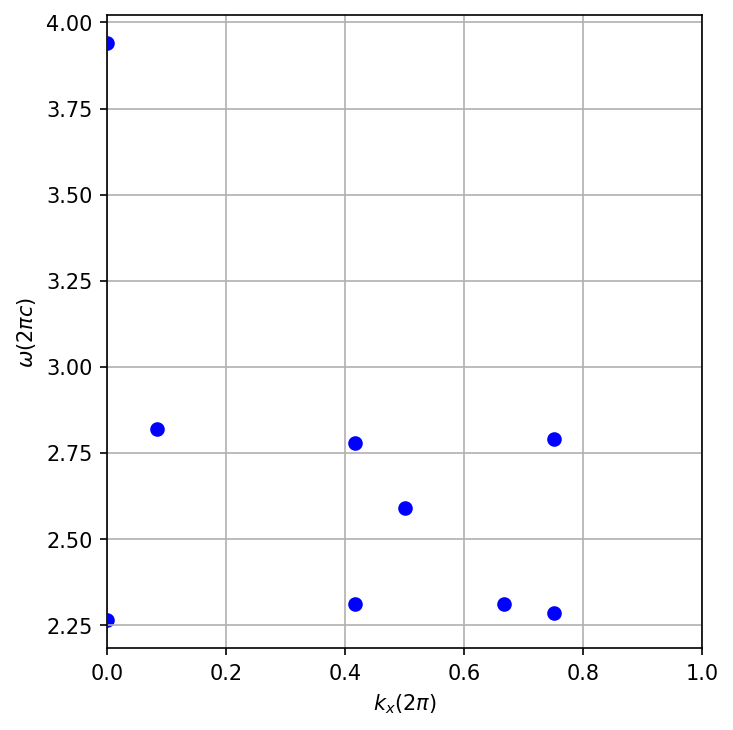
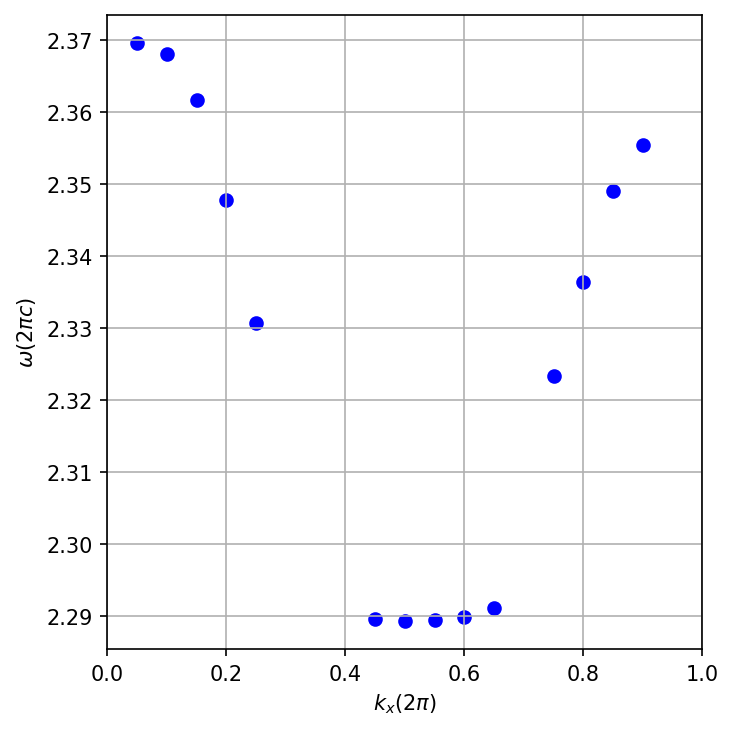
asml

diff --git a/simulation/tdsolver.py b/simulation/tdsolver.py
@@ -64,13 +64,23 @@ def create2dHexSolver(silMat, latticeConstant : float, numSources : int):
 
     
     sources = []
+        
+    # fcen = 1 / latticeConstant #- 2 * rng.random() # pulse center frequency
+    # df = 0.5  # pulse freq. width: large df = short impulse
+
+    # s = mp.Source(
+    #     src=mp.GaussianSource(fcen, fwidth=df),
+    #     component=mp.Ez,
+    #     center=mp.Vector3(0, 0, 0),
+    # )
+    # sources.append(s)
     
     rng = random.default_rng()
 
     for i in range(numSources):
         
-        fcen = 5 - 2 * rng.random() # pulse center frequency
-        df = 1.5  # pulse freq. width: large df = short impulse
+        fcen = 2.2 #- 2 * rng.random() # pulse center frequency
+        df = 0.5  # pulse freq. width: large df = short impulse
 
         s = mp.Source(
             src=mp.GaussianSource(fcen, fwidth=df),
@@ -83,10 +93,10 @@ def create2dHexSolver(silMat, latticeConstant : float, numSources : int):
 
     return mp.Simulation(
         cell_size=cell,
-        symmetries=[mp.Mirror(direction = mp.ALL, phase=-1)],
+        symmetries=[mp.Mirror(direction = mp.ALL, phase=1)],
         geometry=geometry,
         sources=sources,
-        resolution=200,
+        resolution=150,
     )
     
     # 

diff --git a/main.py b/main.py
@@ -5,8 +5,7 @@ from meep import mpb
 import os
 import io
 
-import disRel.lorentzfit as lf
-import disRel.processInput as pi
+import materials.asml as asml
 
 import plots.bandvisualizer
 
@@ -21,7 +20,7 @@ def tdsim():
     
     latticeConstant = 0.400
     
-    silMat = pi.getFitted("data/AspnesCrystallineNanometers.csv", [0.4, 0.7], "um", 1, 1)
+    silMat = asml.fitMaterial("data/AspnesCrystallineNanometers.csv", [0.4, 0.7], "um", 1, 1)
     
     sim = tdSolver.create2dHexSolver(silMat, latticeConstant, 10) # ?
     
@@ -32,7 +31,7 @@ def tdsim():
         latticeConstant * mp.Vector3(1 / -3, 1 / 3),  # K
     ]
 
-    k_interp = 5  # number of k_points to interpolate
+    k_interp = 9 # number of k_points to interpolate
     k_points = mp.interpolate(k_interp, k_points)
     
     freqs = sim.run_k_points(50, k_points)

diff --git a/materials/asml.py b/materials/asml.py
@@ -2,7 +2,7 @@ import meep as mp
 import numpy as np
 import matplotlib as mpl
 
-import disRel.processInput as pi
+import materials.disRel.processInput as pi
 
 def fitMaterial(datasource : str, wl_r : tuple[float, float], wl_units : str,
                 num_lorentzians = 4, num_repeat = 10, imaginary_weight = 4, name : str = ""):
@@ -33,7 +33,7 @@ def fitMaterial(datasource : str, wl_r : tuple[float, float], wl_units : str,
                 )
             )
 
-    np.save("bin\\mats\\" + name, (ps, idx_opt))
+    # np.save("bin\\mats\\" + name, (ps, idx_opt))
     
     return mp.Medium(epsilon=eps_inf, E_susceptibilities=E_susceptibilities)
     

diff --git a/materials/disRel/processInput.py b/materials/disRel/processInput.py
@@ -3,7 +3,7 @@ import meep as mp
 import nlopt
 import matplotlib.pyplot as mpl
 
-import disRel.lorentzfit as lf
+import materials.disRel.lorentzfit as lf
 import util.chatter as chat
 
 
